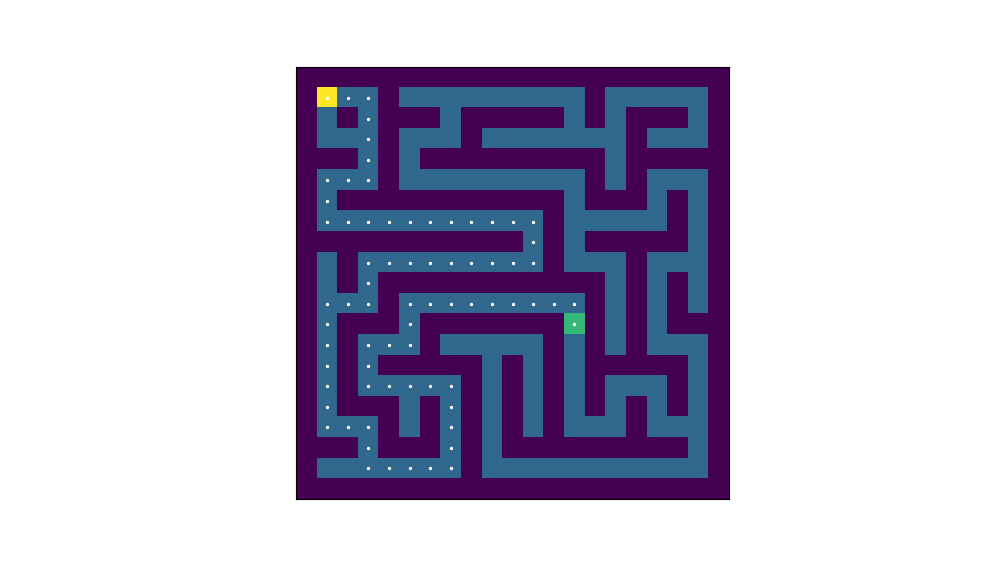
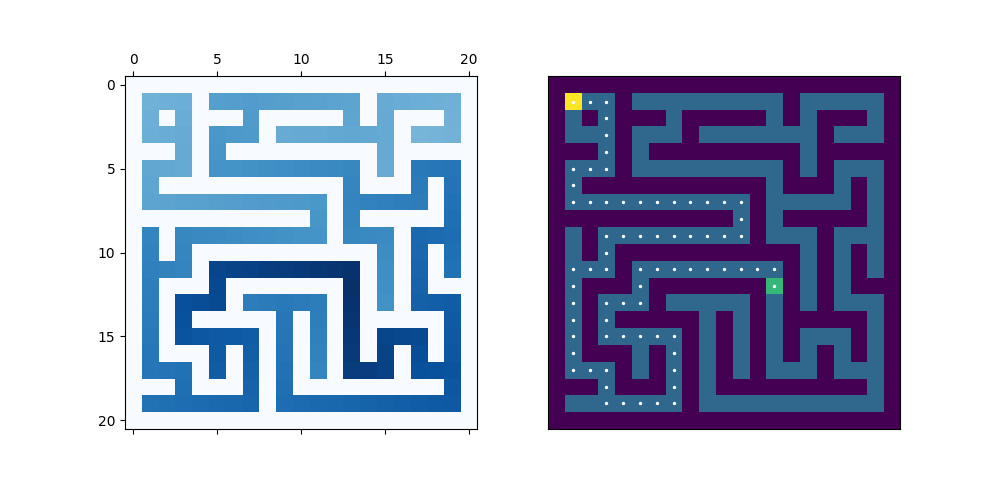
updated value iteration

diff --git a/value_iteration.py b/value_iteration.py
@@ -1,31 +1,17 @@
 # Imports 
 import numpy as np
-from queue import PriorityQueue
 from track_time import track_time
-from utility import handle_result
 from maze import draw_maze, load_maze, MazeMDP
 
-# def get_possible_s_primes(s, actions, states):
-#     return [
-#         s_prime 
-#         for s_prime in [(s[0] + a[0], s[1] + a[1]) for a in actions] 
-#         if s_prime in states
-#     ]
-#     return [(s[0] + a[0], s[1] + a[1]) for a in actions]
-
-def print_2d_array(arr):
-    for row in arr:
+def print_mat_2d(mat):
+    for row in mat:
         print(row.tolist())
 
-def initialize_v(maze):
-    V = np.zeros(maze.maze.shape) # Value at all maze positions = 0.
-    # V = (V == maze.maze).astype(int).astype(float) # Wall = 1, other = 0.
-    # # Set all positions with a wall to have a big negative value
-    # # since these are not valid states in the maze.
-    # V[V == 1] = -1
-    # Every actual state in the maze (position with no walls) 
-    # is consequently initialized to have value 0.
-    return V
+def v_to_mat(v, shape):
+    mat = np.zeros(shape) - 1
+    for key, val in v.items():
+        mat[key] = val
+    return mat
 
 def value_iteration(maze, epsilon, print_values):
     """ 
@@ -34,44 +20,43 @@ def value_iteration(maze, epsilon, print_values):
     """
     # Initially, value of every valid state to be 0.
     # Positions corresponding to invalid states (walls) = -(maze dim)^2.
-    Vold = np.zeros(maze.maze.shape)
-    Vnew = np.zeros(maze.maze.shape)
+    V = {state:0 for state in maze.states}
     converged = False # Keep track of convergence.
     k = 0 # Keep track of kth iteration.
     print('\nPerforming value iteration ...')
     while(not converged): # Repeat until convergence.
         # For each state ...
+        state_max_diff = 0
         for s in maze.states:
-            val_max_a = float('-inf') # Max value possible.
+            V_old = V.copy()
+            Q = {} # Max value possible.
             # For each action ...
             for a in maze.actions:
                 # Compute sum of immediate and future discounted rewards across all possible states from s.
-                val_sum = 0 
+                u = 0 
                 # For each possible new state ...
-                for s_prime in [(s[0] + a[0], s[1] + a[1]) for a in maze.actions]:
+                for s_prime in [(s[0]+a[0], s[1]+a[1]) for a in maze.actions]:
                     transitionProb = maze.T(s, a, s_prime)
                     if (transitionProb > 0):
                         reward = (
-                            maze.R(s) + # Immediate reward + 
-                            (maze.gamma * Vold[s_prime]) # Discounted future reward.
+                            maze.R(s, a, s_prime) + # Immediate reward + 
+                            (maze.gamma * V_old[s_prime]) # Discounted future reward.
                         )
-                        val = transitionProb * reward
-                    else:
-                        val = 0
-                    val_sum += val # Sum values.
-                if val_sum > val_max_a: # Max val over actions.
-                    val_max_a = val_sum
-            Vnew[s] = val_max_a # keep track of computed value.
+                        u += transitionProb * reward
+                Q[a] = u
+            V[s] = max(Q.values()) # keep track of computed value.
+            state_diff = abs(V[s] - V_old[s])
+            if state_diff > state_max_diff: 
+                state_max_diff = state_diff
         # Value iteration is considered to have converged 
         # if maximum change of all state values from state 
         # k to k+1 <= some small epsilon change.
-        converged = np.max(np.abs(Vnew - Vold)) <= epsilon # Check convergence.
-        Vold = Vnew.copy() # Set latest values as old values for next iteration.
+        converged = state_max_diff <= epsilon # Check convergence.
         k += 1 # Update iteration counts.
     if print_values:
         print(f'Iteration {k}:')
-        print_2d_array(Vold)
-    return Vold, k
+        print_mat_2d(v_to_mat(v=V, shape=maze.maze.shape))
+    return V, k
 
 def policy_extraction(maze, V):
     """ 
@@ -82,38 +67,28 @@ def policy_extraction(maze, V):
     print('\nExtracting policy ...')
     policy = {state: (0, 0) for state in maze.states}
     for s in list(policy.keys()):
-        val_max_a = float('-inf') # Max value possible.
-        best_a = (0, 0) # Keep track of best action for this state.
+        Q = {}
         # For each action ...
         for a in maze.actions:
-            # Compute sum of immediate and future discounted rewards across all possible states from s.
-            val_sum = 0 
-            # For each possible new state ...
-            for s_prime in [(s[0] + a[0], s[1] + a[1]) for a in maze.actions]:
-                transitionProb = maze.T(s, a, s_prime)
-                if (transitionProb > 0):
+            u = 0 # expected utility of taking action a from state s
+            # For each possible state ...
+            for s_prime in [(s[0]+a[0], s[1]+a[1]) for a in maze.actions]:
+                transition_prob = maze.T(s, a, s_prime)
+                if (transition_prob > 0):
                     reward = (
-                        maze.R(s) + # Immediate reward + 
+                        maze.R(s, a, s_prime) + # Immediate reward + 
                         (maze.gamma * V[s_prime]) # Discounted future reward.
                     )
-                    val = transitionProb * reward
-                else:
-                    val = 0
-                val_sum += val # Sum values.
-            if val_sum > val_max_a: # Max val over actions.
-                val_max_a = val_sum
-                best_a = a
-        if best_a == (0, 0):
-            print('No solution found')
-            break
-        policy[s] = best_a
+                    u += transition_prob * reward
+            Q[a] = u
+        policy[s] = max(Q, key=Q.get)
     return policy
 
 @track_time
-def solver(maze, epsilon=1e-2, print_values=False):
+def solver(maze, epsilon=1e-3, print_values=False):
     if print_values: 
         print('Maze:')
-        print_2d_array(maze.maze)
+        print_mat_2d(maze.maze)
 
     V, num_iters = value_iteration(maze, epsilon, print_values)
     
@@ -122,26 +97,28 @@ def solver(maze, epsilon=1e-2, print_values=False):
     s = (1,1)
     path = []
     while (s != maze.goal):
-        if (s in path):
-            print('Loop')
+        try:
+            if (s in path):
+                print('Loop')
+                break
+            path.append(s)
+            a = policy[s]
+            s = maze.succ(s, a)
+        except:
             break
-        path.append(s)
-        a = policy[s]
-        s = (s[0]+a[0], s[1]+a[1])
     path.append(s)
 
     return {
         'path': path,
-        'v': V,
+        'v': v_to_mat(V, maze.maze.shape),
         'policy': policy,
         'num_iterations': num_iters
     }
 
 if __name__ == '__main__':
     # TEST MAZE
-    maze = MazeMDP(dim=50)
+    maze = MazeMDP(dim=60)
     res = solver(maze)
-    # print('Result =', res)
     draw_maze(
         maze=maze.maze, 
         path=res['path'], 
@@ -151,22 +128,19 @@ if __name__ == '__main__':
     # # TINY MAZE
     # maze = MazeMDP(maze=load_maze(path='./mazes/t_dim5.json'))
     # res = solver(maze, print_values=True)
-    # print('Result =', res)
-    # draw_maze(maze=maze.maze, save_dir='./solutions', save_filename=f'mdpvi_dim{maze.maze.shape[0]}', save_animation=False, path=res['path'])
+    # draw_maze(maze=maze.maze, save_dir='./solutions', save_filename=f'mdpvi_dim{maze.maze.shape[0]}', save_animation=False, path=res['path'], v=res['v'])
 
     # # SMALL MAZE
     # maze = MazeMDP(maze=load_maze(path='./mazes/s_dim21.json'))
     # res = solver(maze)
-    # # print('Result =', res)
-    # draw_maze(maze=maze.maze, save_dir='./solutions', save_filename=f'mdpvi_dim{maze.maze.shape[0]}', save_animation=False, path=res['path'])
+    # draw_maze(maze=maze.maze, save_dir='./solutions', save_filename=f'mdpvi_dim{maze.maze.shape[0]}', save_animation=False, path=res['path'], v=res['v'])
 
     # # MEDIUM MAZE
     # maze = MazeMDP(maze=load_maze(path='./mazes/m_dim41.json'))
     # res = solver(maze)
-    # draw_maze(maze=maze.maze, save_dir='./solutions', save_filename=f'mdpvi_dim{maze.maze.shape[0]}', save_animation=False, path=res['path'])
+    # draw_maze(maze=maze.maze, save_dir='./solutions', save_filename=f'mdpvi_dim{maze.maze.shape[0]}', save_animation=False, path=res['path'], v=res['v'])
 
     # # LARGE MAZE
     # maze = MazeMDP(maze=load_maze(path='./mazes/l_dim101.json'))
     # res = solver(maze)
-    # # print('Result =', res)
-    # draw_maze(maze=maze.maze, save_dir='./solutions', save_filename=f'mdpvi_dim{maze.maze.shape[0]}', save_animation=False, path=res['path'])
+    # draw_maze(maze=maze.maze, save_dir='./solutions', save_filename=f'mdpvi_dim{maze.maze.shape[0]}', save_animation=False, path=res['path'], v=res['v'])

diff --git a/maze.py b/maze.py
@@ -20,7 +20,7 @@ def draw_maze(maze, save_dir='', save_filename='', save_animation=False, path=No
 
     # Plot values (value iteration) if available.
     if v is not None:
-        axes[0].matshow(v, cmap=plt.cm.Blues)
+        axes[0].matshow(v, cmap=plt.cm.seismic)
 
     axes[1].imshow(maze, interpolation='nearest')
     axes[1].set_xticks([])
@@ -189,7 +189,9 @@ class MazeMDP(Maze):
         """
         for i in range(self.maze.shape[0]):
             for j in range(self.maze.shape[1]):
-                self.states.append((i, j))
+                if self.is_walkable((i, j), []):
+                    self.states.append((i, j))
+                # self.states.append((i, j))
 
     def T(self, s, a, s_prime):
         """ 
@@ -202,16 +204,14 @@ class MazeMDP(Maze):
         @param a: Action taken.
         @param s_prime: New state.
         """
-        # Compute what s_prime should be.
-        s_prime_true = (s[0] + a[0], s[1] + a[1])
-        if not self.is_walkable(s_prime_true, visited=[]): 
-            # If s_prime_true is a wall, then state remains s.
-            s_prime_true = s
-        # Compare that with what it is given to be.
-        if s_prime_true == s_prime: return 1 # If same, then P(s, a, s') = 1.0.
-        else: return 0  # Else, P(s, a, s') = 0.0.
-    
-    def R(self, s): # a, s' does not matter in this scenario
+        # return int(
+        #     0 <= s[0]+a[0] < self.maze.shape[0] and
+        #     0 <= s[1]+a[1] < self.maze.shape[1] and 
+        #     (s[0]+a[0], s[1]+a[1]) == s_prime
+        # )
+        return self.is_walkable(s, []) and self.succ(s, a) == s_prime
+
+    def R(self, s, a, s_prime):
         """ 
         Rewards function which when given a state s and action a,
         returns the reward of taking action a in state s to end
@@ -220,21 +220,29 @@ class MazeMDP(Maze):
         @param a: Action taken.
         @param s_prime: New state.
         """
-        # Reward is 0 as long as s is not the goal and shall 
-        # be a big positive number.
-        # if (s[0]+a[0], s[1]+a[1]) != s_prime:
-        #     return -100
-        if s == self.goal: 
-            return self.max_reward
-        num_exits = 0
-        for dir in self.actions:
-            try:
-                if self.maze[(s[0]+dir[0], s[1]+dir[1])] == 1:
-                    num_exits += 1
-            except:
-                pass # could be invalid state that does not exist
-        if num_exits >= 1: 
-            if num_exits == 1: # dead end
-                return -10 * self.maze.shape[0]
-            return -1 * self.maze.shape[0]  # normal path
-        return -100 * self.maze.shape[0] # invalid or closed path or is wall
+        # if s == self.goal: # if s is goal, then large positive reward
+        #     return len(self.states) * (10**2)
+        # num_exits = sum([ # Else count no. of exits from this position.
+        #     int(self.maze[(s[0]+a[0], s[1]+a[1])] == 1) # 1 = space = exit
+        #     for a in self.actions
+        #     if (
+        #         0 <= (s[0] + a[0]) < self.maze.shape[0] and
+        #         0 <= (s[1] + a[1]) < self.maze.shape[1]
+        #     )])
+        # if num_exits >= 1: 
+        #     if num_exits == 1: # dead end
+        #         return -10
+        #     return -1
+        # return -100
+
+        try:
+            if self.maze[s] == 2: # s is goal
+                return (self.maze.shape[0]**2) * (10**3)
+            if self.maze[s] == 1: # s is space
+                if self.maze[s_prime] == 2: # s_prime is goal
+                    return self.maze.shape[0]**2
+                if self.maze[s_prime] == 1: # s_prime is space
+                    return self.maze.shape[0]
+            return 0
+        except:
+            return 0
